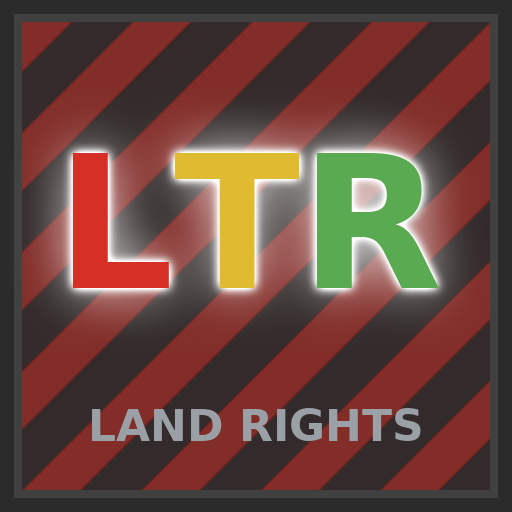
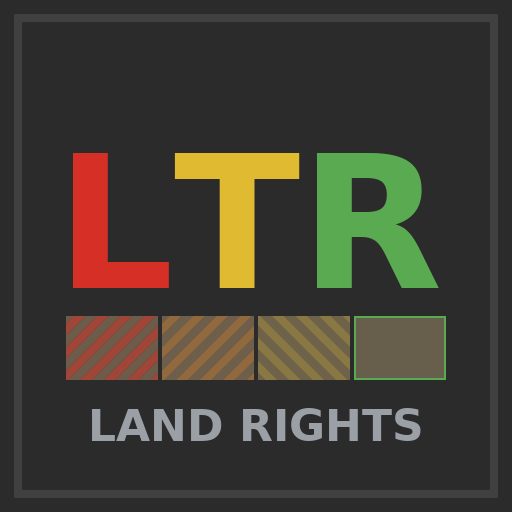
thumbnail: the ladder, not a wall of stripes
Three rounds of halo were spent rescuing the mark from its own background:
the card underlaid wilderness stripes full-bleed, which put wilderness red
directly behind the wilderness-red L, and every fix so far treated the
symptom. The background was the problem.

The texture now lives in a strip below the mark -- four cells wearing the
real in-game overlay artwork, left to right, Wilderness -> Trail ->
Rampart -> Deed. That is the mod's actual thesis in one line, ending in a
cell that is deliberately empty: a Deed carries no blocker and no overlay,
so absence IS the full grant. It also shows rampart's mirrored lean, which
is the distinction the overlays now rest on.

Two consequences. The mark sits on flat charcoal and needs no glow at all,
so the halo code is gone. And the artwork gets somewhere it is the subject
rather than interference.

All four rungs share one ground tone. The overlays are drawn to be seen
over lit terrain, and against bare charcoal trail's orange and rampart's
yellow collapse into the same murky brown -- the hues only separate with
something to tint. The shared ground also lets the Deed cell make its own
argument: identical land, no hatching over it.

diff --git a/tools/gen_thumbnail.py b/tools/gen_thumbnail.py
@@ -10,6 +10,19 @@ colors, so the card reads as the same gradient the map does:
     T   rampart     yellow  midway up the ladder
     R   deed        green   held outright
 
+Below the mark, the ladder itself: four cells wearing the real in-game
+overlay artwork, left to right, Wilderness -> Trail -> Rampart -> Deed. The
+last cell is empty on purpose. A Deed cell carries no blocker and no
+overlay — absence IS the full grant — so the strip resolves from loud red
+hatching to clear ground, which is the whole mod in one line.
+
+The strip also does the composition's real work. An earlier card underlaid
+the wilderness stripes full-bleed, which put wilderness red directly behind
+the wilderness-red L and needed escalating halos to rescue it. Confining
+the texture to a strip means the mark sits on flat charcoal and needs no
+glow at all; the artwork gets a place where it is the subject rather than
+interference.
+
 Colors are parsed from scripts/state_colors.lua (the single source of truth,
 same as tools/gen_overlays.py), so retinting the ladder retints the card.
 
@@ -19,7 +32,7 @@ Run from the repo root:  python3 tools/gen_thumbnail.py
 import re
 from pathlib import Path
 
-from PIL import Image, ImageDraw, ImageFilter, ImageFont
+from PIL import Image, ImageDraw, ImageFont
 
 SIZE = 512
 BG = (43, 43, 43)
@@ -27,24 +40,6 @@ FRAME = (64, 64, 64)
 FRAME_INSET = 14
 FRAME_WIDTH = 8
 SUBTITLE_FILL = (154, 160, 166)
-
-# A white halo behind the mark, centred (no offset) rather than cast to one
-# side. The card underlays the wilderness stripes, and wilderness red is
-# also the L's own color -- so wherever a stripe fell behind the L the
-# letter dissolved into it. The halo separates every letter from whatever
-# is under it without changing the letters themselves, which have to stay
-# on the state palette. Strength lifts the blur's midtones so the halo
-# reads as a rim rather than a faint smudge; it clips at full white close
-# to the glyph, which is exactly where the contrast is needed.
-GLOW = (255, 255, 255)
-# Two passes, drawn widest first. The tight rim is what makes the letters
-# legible against a stripe; the wide, weak bloom underneath does nothing
-# for legibility and everything for depth -- it lifts the mark off the
-# striped ground so it reads as floating above the card rather than
-# printed on it. Keep the wide pass unboosted: at strength 1.0 a radius-26
-# blur is already a thin veil, and lifting it turns the halo into a solid
-# blob that closes the counters of the R.
-GLOW_PASSES = ((26, 1.0), (5, 2.2))
 
 LETTERS = "LTR"
 SUBTITLE = "LAND RIGHTS"
@@ -59,11 +54,22 @@ FONT = "/usr/share/fonts/truetype/dejavu/DejaVuSans-Bold.ttf"
 LETTER_SIZE = 185
 SUBTITLE_SIZE = 44
 
-# The wilderness overlay as a background underlay: the card wears the
-# texture the map wears, at the artwork's own strength — the card adds no
-# transparency of its own (playtest call), so retuning the stripes retunes
-# the card. It reads the PNG rather than redrawing the pattern, which is
-# why 0.1.10's wider, more see-through stripes arrived here for free.
+# The ladder strip, centred in the gap between the mark and the subtitle.
+LADDER = ("wilderness", "trail", "rampart", "deed")
+LADDER_TOP = 316
+LADDER_H = 64
+LADDER_CELL_W = 92
+LADDER_GAP = 4
+# Every rung sits on the same patch of ground. The overlays are designed to
+# be seen over lit terrain, and over bare charcoal trail's orange and
+# rampart's yellow both collapse into the same murky brown -- the hues only
+# separate against something to tint. Giving all four cells one neutral
+# ground also makes the Deed cell argue for itself: identical land, no
+# hatching over it, which is exactly what holding the deed means.
+GROUND = (104, 94, 76)
+# The Deed cell is drawn as an outline rather than a fill: it has to read as
+# "cleared and held", not as "nothing here yet".
+DEED_OUTLINE_W = 2
 
 
 def load_state_colors():
@@ -90,24 +96,37 @@ def draw_letters(colors):
     return layer, layer.getbbox()
 
 
-def glow_for(layer, radius, strength):
-    """A blurred white copy of `layer`'s coverage, to sit directly behind it."""
-    alpha = layer.getchannel("A").filter(ImageFilter.GaussianBlur(radius))
-    if strength != 1.0:
-        alpha = alpha.point(lambda v: min(255, int(v * strength)))
-    halo = Image.new("RGBA", layer.size, GLOW + (0,))
-    halo.putalpha(alpha)
-    return halo
+def state_swatch(root, state):
+    """One ladder cell's worth of a state's overlay artwork.
 
-
-def wilderness_underlay(root):
-    """The wilderness stripes, cropped of their baked cell border and sized
-    to the card's inner area (inside the frame), at full artwork strength."""
-    src = Image.open(root / "graphics/wilderness-overlay.png").convert("RGBA")
-    crop = 10  # the artwork's cell-edge border + inner line
+    The source is scaled to a SQUARE first and the cell cropped out of it.
+    Resizing straight to the cell's aspect would shear the 45-degree hatching
+    to some other angle, and differently per cell — the stripes have to meet
+    the eye at the same angle and width they do in game, including rampart's
+    mirrored lean, or the strip stops being a legend for what is on the map.
+    """
+    src = Image.open(root / f"graphics/{state}-overlay.png").convert("RGBA")
+    crop = 10  # the artwork's own cell-edge border + inner line
     src = src.crop((crop, crop, src.width - crop, src.height - crop))
-    inner = SIZE - 2 * (FRAME_INSET + FRAME_WIDTH)
-    return src.resize((inner, inner), Image.LANCZOS)
+    square = max(LADDER_CELL_W, LADDER_H)
+    src = src.resize((square, square), Image.LANCZOS)
+    left = (square - LADDER_CELL_W) // 2
+    top = (square - LADDER_H) // 2
+    return src.crop((left, top, left + LADDER_CELL_W, top + LADDER_H))
+
+
+def draw_ladder(img, d, root, colors):
+    total = len(LADDER) * LADDER_CELL_W + (len(LADDER) - 1) * LADDER_GAP
+    x = (SIZE - total) // 2
+    for state in LADDER:
+        box = [x, LADDER_TOP, x + LADDER_CELL_W - 1, LADDER_TOP + LADDER_H - 1]
+        d.rectangle(box, fill=GROUND)
+        if state == "deed":
+            d.rectangle(box, outline=colors["deed"], width=DEED_OUTLINE_W)
+        else:
+            swatch = state_swatch(root, state)
+            img.paste(swatch, (x, LADDER_TOP), swatch)
+        x += LADDER_CELL_W + LADDER_GAP
 
 
 def build():
@@ -115,9 +134,6 @@ def build():
     colors = load_state_colors()
     img = Image.new("RGB", (SIZE, SIZE), BG)
     d = ImageDraw.Draw(img)
-
-    under = wilderness_underlay(root)
-    img.paste(under, (FRAME_INSET + FRAME_WIDTH, FRAME_INSET + FRAME_WIDTH), under)
 
     far = SIZE - 1 - FRAME_INSET
     d.rectangle([FRAME_INSET, FRAME_INSET, far, far], outline=FRAME, width=FRAME_WIDTH)
@@ -128,12 +144,9 @@ def build():
         round(SIZE / 2 - (left + right) / 2),
         round(LETTERS_CENTRE_Y - (top + bottom) / 2),
     )
-    # Halos first, letters over them: the glow only ever shows outside the
-    # glyphs, so it never washes out the palette colors it is protecting.
-    for radius, strength in GLOW_PASSES:
-        halo = glow_for(layer, radius, strength)
-        img.paste(halo, offset, halo)
     img.paste(layer, offset, layer)
+
+    draw_ladder(img, d, root, colors)
 
     font = ImageFont.truetype(FONT, SUBTITLE_SIZE)
     d.text((SIZE / 2, SUBTITLE_CENTRE_Y), SUBTITLE, font=font,
